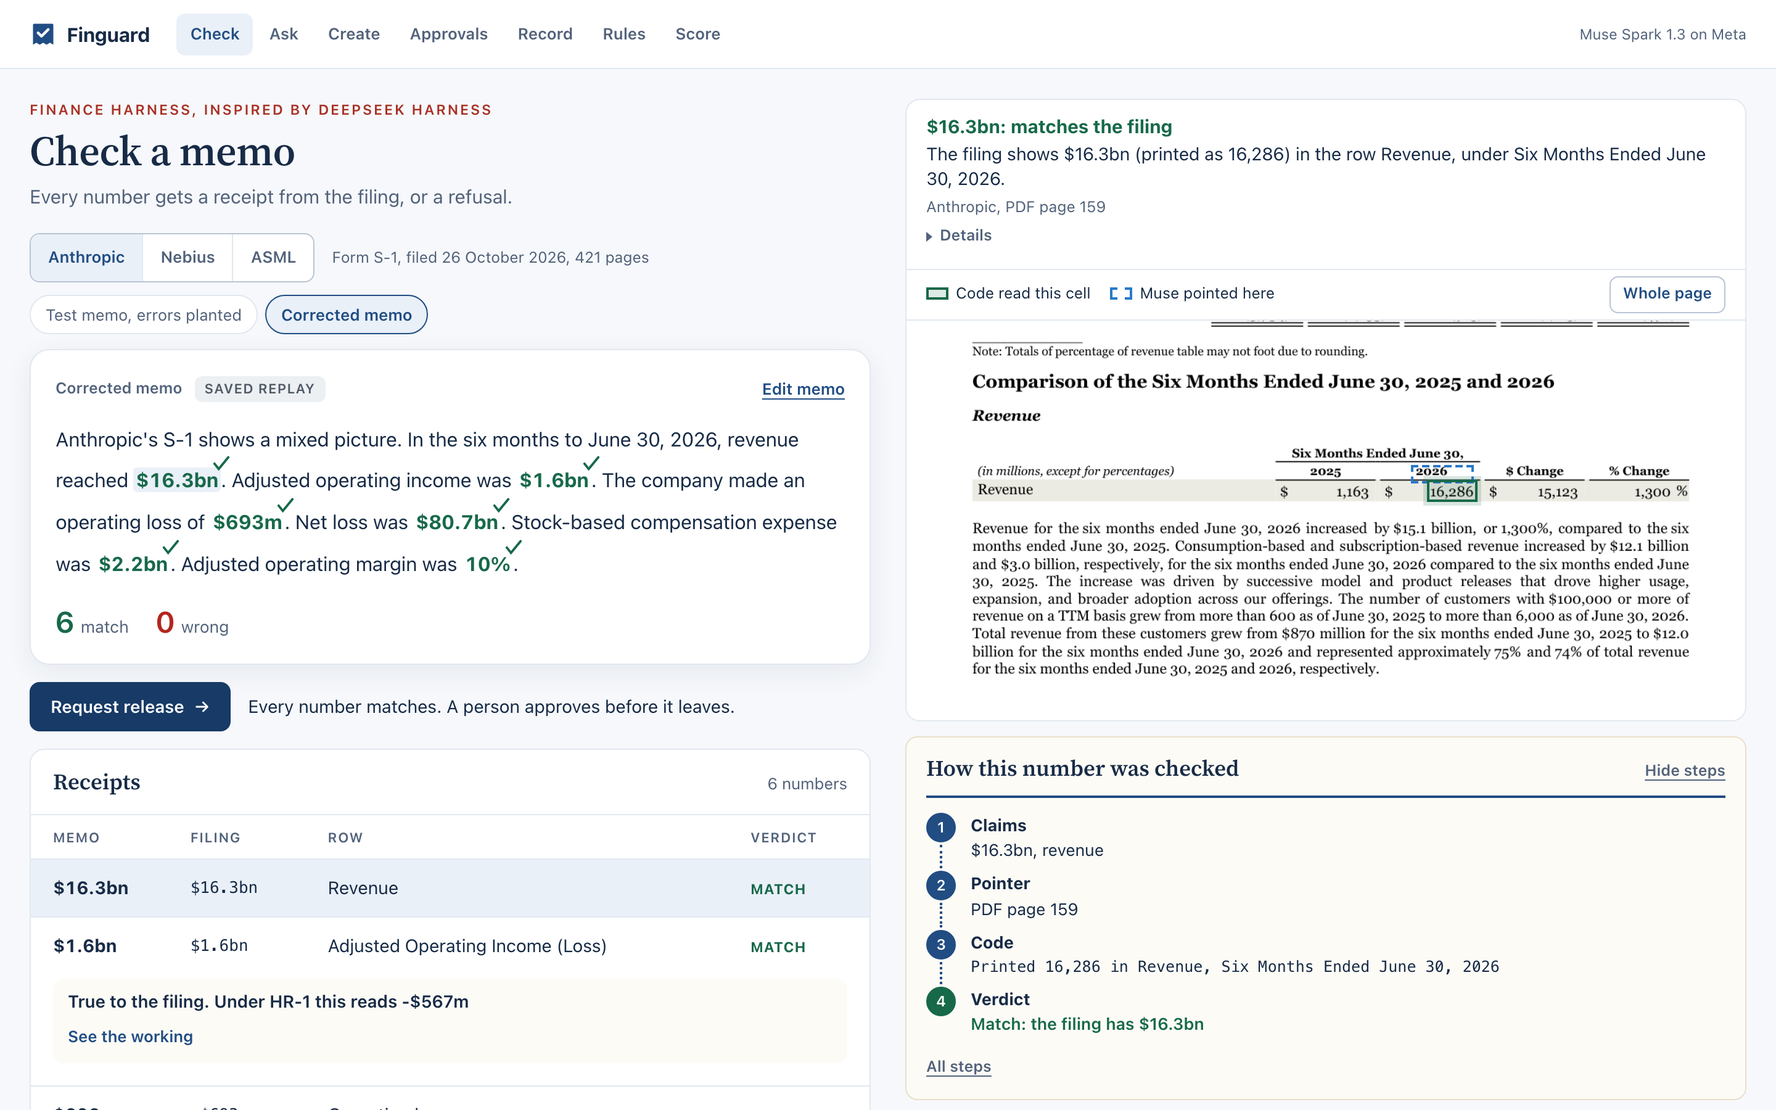
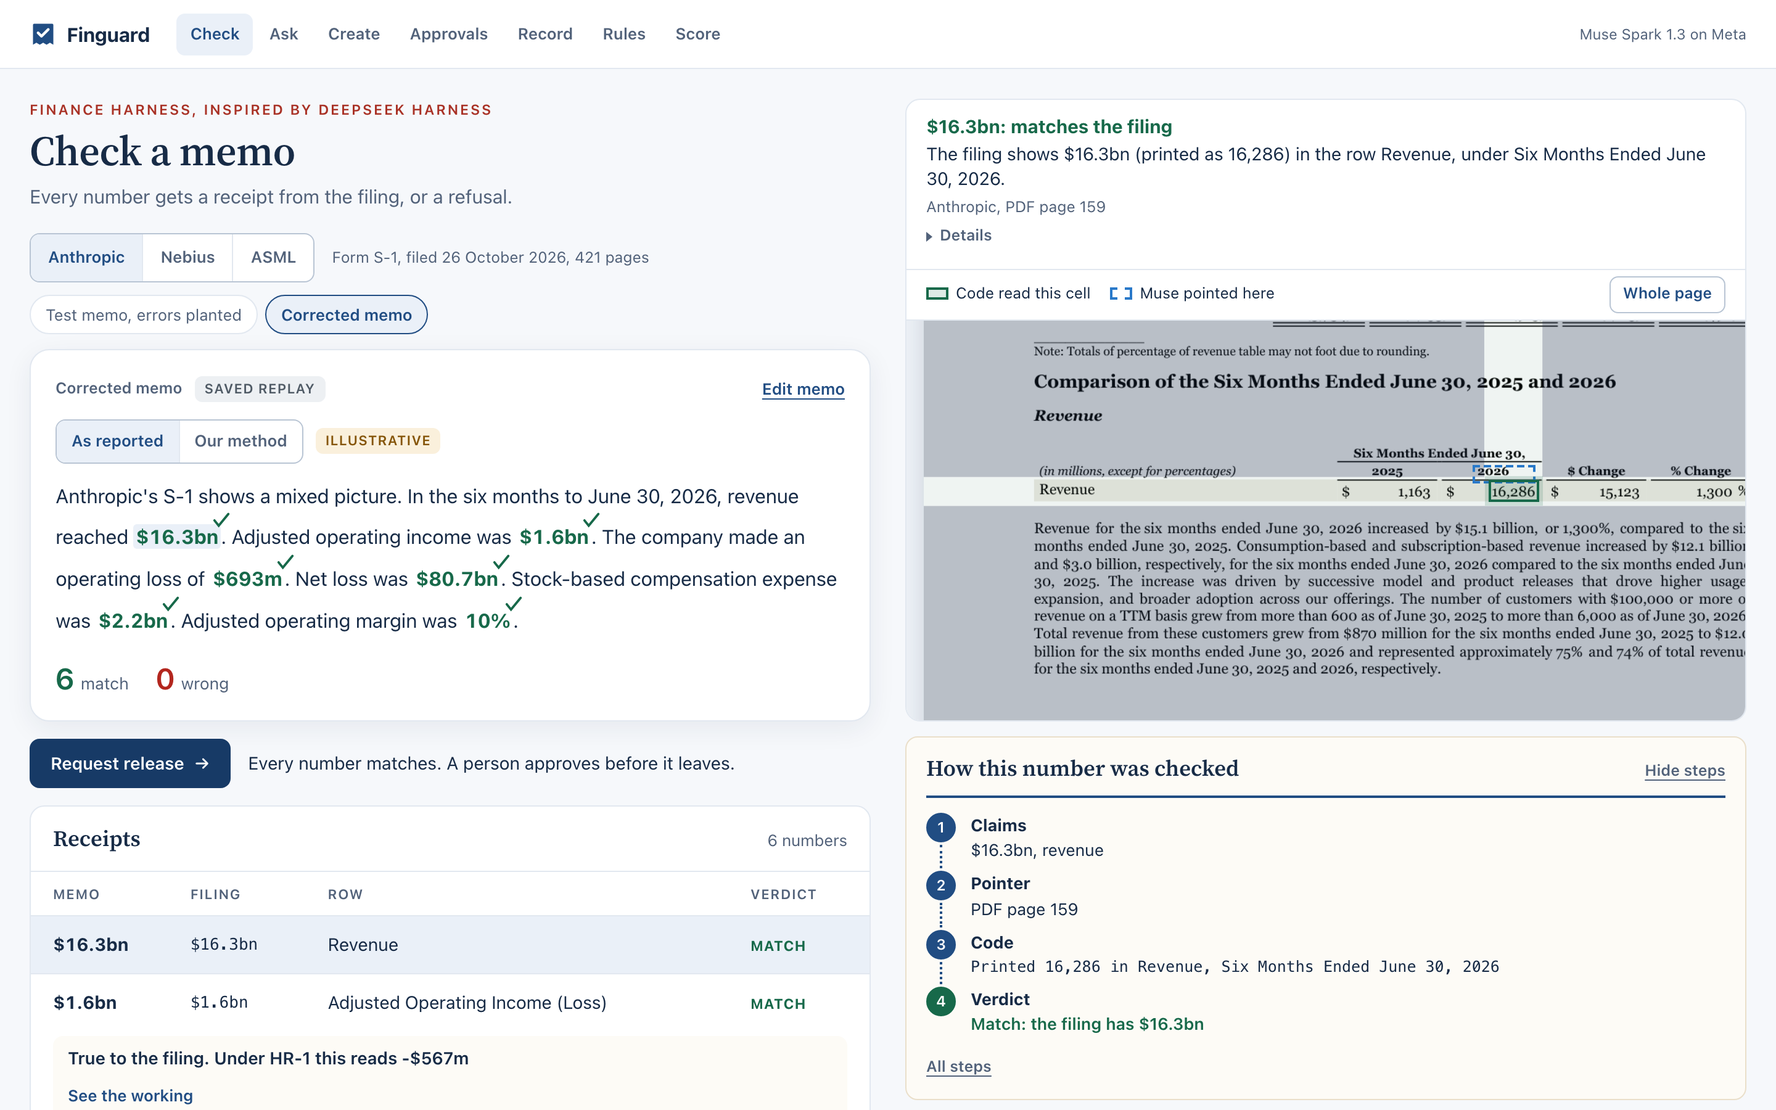
Add the method switch, the crosshair proof and a one by one reveal
Flipping to Our method shows a house reading in place, with no call and no change to any verdict. The proof
lights the cell's row and column. Marks appear in memo order, and the page never claims this is live progress.

diff --git a/finguard/static/index.html b/finguard/static/index.html
@@ -131,6 +131,20 @@ button.fig::after{content:"";position:absolute;inset:-13px -4px}
 .fig .ring{position:absolute;left:-7px;top:-5px;width:calc(100% + 14px);height:calc(100% + 10px);pointer-events:none;overflow:visible}
 .fig .ring path{stroke:var(--wrong);stroke-width:1.8;fill:none;stroke-linecap:round;vector-effect:non-scaling-stroke;stroke-dasharray:1;stroke-dashoffset:1;animation:draw .55s cubic-bezier(.6,.1,.3,1) forwards;animation-delay:var(--d,0s)}
 @keyframes draw{to{stroke-dashoffset:0}}
+/* one by one: a number stays neutral until its turn */
+.fig{transition:color .15s ease-out}
+.fig.pending{color:var(--ink);border-bottom-color:transparent}
+.fig.pending svg{display:none}
+/* the method switch changes the display only */
+.fig-house{display:none}
+.memo.method-on .fig.has-house{font-size:.82em;font-weight:500;color:var(--soft);text-decoration:line-through}
+.memo.method-on .fig-house{display:inline-block;margin-left:5px;padding:0 4px;border-radius:3px;font-size:1.22em;font-weight:700;color:var(--navy);background:var(--tint);text-decoration:none;animation:house-in .2s ease-out}
+@keyframes house-in{from{opacity:0;transform:translateY(3px)}}
+.method{display:flex;flex-wrap:wrap;align-items:center;gap:6px 10px;margin:0 0 10px}
+.method .tabs button{min-height:34px;padding:4px 12px}
+.method-note{flex-basis:100%;font-size:13px;line-height:1.4;color:var(--soft)}
+.house-note{display:flex;flex-wrap:wrap;align-items:center;gap:2px 8px}
+.house-note>details,.house-note>p.mono{flex-basis:100%}
 .memo.quiet{font-size:15px;line-height:1.95}
 
 /* tally and release */
@@ -195,6 +209,13 @@ button.fig::after{content:"";position:absolute;inset:-13px -4px}
 @keyframes rise{from{transform:translateY(6px)}}
 .page-wait{font-size:13px;color:var(--soft);margin:0 0 10px;line-height:1.4}
 .box{position:absolute;pointer-events:none}
+/* the crosshair: the page dims, the cell's row and column stay lit, and they meet at the solid box */
+.cross{position:absolute;inset:0;width:100%;height:100%;pointer-events:none;animation:cross-in .22s ease-out}
+.page:not(.ready) .cross{display:none}
+.cross .band{fill:var(--wrong);opacity:.07}
+.cross.match .band{fill:var(--match)}
+.cross.read .band{fill:var(--navy)}
+@keyframes cross-in{from{opacity:0}}
 .page:not(.ready) .box{display:none}
 .box.code{border:2px solid var(--wrong);background:rgba(179,38,30,.13);box-shadow:0 0 0 3px rgba(179,38,30,.16)}
 .box.code.match{border-color:var(--match);background:rgba(23,105,74,.13);box-shadow:0 0 0 3px rgba(23,105,74,.16)}
@@ -520,7 +541,7 @@ button.fig::after{content:"";position:absolute;inset:-13px -4px}
   .house-note details summary{min-height:44px}
   .answer{padding:14px}
   .linkish{min-height:44px}
-  .more>summary,.panel-toggle,.panel-all{min-height:44px}
+  .more>summary,.panel-toggle,.panel-all,.method .tabs button{min-height:44px}
   .operator p{padding-bottom:0}
   .site-foot a{display:inline-flex;align-items:center;min-height:44px}
   .site-foot{padding:8px 16px 24px}
@@ -951,13 +972,12 @@ function markedMemo(memo, receipts, onPick) {
   const placed = receipts.map((r, i) => ({r, i}))
     .filter(({r}) => Number.isInteger(r.start) && Number.isInteger(r.end) && r.start >= 0 && r.end > r.start && r.end <= text.length)
     .sort((a, b) => a.r.start - b.r.start);
-  let at = 0, order = 0;
+  let at = 0;
   for (const {r, i} of placed) {
     if (r.start < at) continue; // two receipts cannot mark the same words
     box.append(text.slice(at, r.start));
     const v = verdictOf(r), words = text.slice(r.start, r.end);
     const mark = onPick ? el("button", `fig ${v}`, words) : el("span", `fig ${v}`, words);
-    mark.style.setProperty("--d", `${order * 0.12}s`); order++;
     if (onPick) {
       mark.type = "button"; mark.dataset.i = i;
       mark.setAttribute("aria-label", `${words}: ${VERDICT[v]}`);
@@ -1062,10 +1082,11 @@ function inputButtons(inputs, onPick) {
   });
   return box;
 }
-function houseBlock(h, onInput) {
+function houseBlock(h, onInput, label) {
   const line = houseLine(h);
   if (!line) return null;
   const block = el("div", "house-note inputs-scope", el("p", "house-line", line));
+  if (label) block.append(stamp(label, "amber"));
   if (h.working && h.working !== h.reason) {
     const d = el("details", "", el("summary", "", "See the working"), el("p", "house-working", h.working));
     if (onInput && h.inputs && h.inputs.length) d.append(inputButtons(h.inputs, onInput));
@@ -1115,6 +1136,26 @@ function personWords(a) {
   return null;
 }
 /* The right column: proof first, then the timeline, reduced to the steps with data. Several benches can share one desk. */
+/* The cell's row and column, from the box alone. The API gives no heading position, so the column fades out upward. */
+let crossCount = 0;
+function crossNode(box, tone) {
+  const NS = "http://www.w3.org/2000/svg";
+  const make = (tag, attrs) => { const n = document.createElementNS(NS, tag); for (const k in attrs) n.setAttribute(k, attrs[k]); return n; };
+  const [x0, y0, x1, y1] = box.map(Number);
+  const L = Math.max(0, x0 - 8), R = Math.min(1000, x1 + 8), T = Math.max(0, y0 - 5), B = Math.min(1000, y1 + 5);
+  const top = Math.max(0, T - 260), fade = Math.min(100, T - top);
+  const dim = "#172b46", dimAlpha = "0.3";
+  const cross = make("svg", {class: `cross ${tone}`, viewBox: "0 0 1000 1000", preserveAspectRatio: "none", "aria-hidden": "true"});
+  const id = `cross-fade-${++crossCount}`;
+  const defs = make("defs", {}), grad = make("linearGradient", {id, x1: "0", y1: "0", x2: "0", y2: "1"});
+  grad.append(make("stop", {offset: "0", "stop-color": dim, "stop-opacity": dimAlpha}), make("stop", {offset: "1", "stop-color": dim, "stop-opacity": "0"}));
+  defs.append(grad);
+  cross.append(defs,
+    make("path", {d: `M0 0H1000V1000H0Z M0 ${T}V${B}H1000V${T}H${R}V${top}H${L}V${T}Z`, "fill-rule": "evenodd", fill: dim, "fill-opacity": dimAlpha}),
+    make("path", {class: "band", d: `M0 ${T}V${B}H1000V${T}H${R}V${top + fade}H${L}V${T}Z`}));
+  if (fade > 0) cross.append(make("rect", {x: L, y: top, width: R - L, height: fade, fill: `url(#${id})`}));
+  return cross;
+}
 function makeDesk(root, {steps = STEPS, values = stepValues, title = "How each number is checked", activeTitle = "How this number was checked"} = {}) {
   let current = null, opts = {}, owner = null, zoomFit = false, reveal = null, userCollapsed = null, showAll = false;
   const card = el("div", "card"); card.setAttribute("aria-live", "polite");
@@ -1167,7 +1208,7 @@ function makeDesk(root, {steps = STEPS, values = stepValues, title = "How each n
     const head = r.codeRead ? `${r.value_text}: read by code` : `${r.value_text || "This number"}: ${VERDICT[v].toLowerCase()}`;
     card.replaceChildren(el("p", `kicker-v ${v}`, head), el("p", "why", r.why || ""));
     if (!r.codeRead) {
-      const note = houseBlock(r.house, opts.onInput);
+      const note = houseBlock(r.house, opts.onInput, opts.ruleLabel);
       if (note) card.append(note);
     }
     const bits = [f ? f.company : opts.filing];
@@ -1218,6 +1259,7 @@ function makeDesk(root, {steps = STEPS, values = stepValues, title = "How each n
       o.style.width = `${(b[2] - b[0]) / 10 + 2 * pad}%`; o.style.height = `${(b[3] - b[1]) / 10 + pad}%`;
       p.append(o); return o;
     };
+    if (hasBox(r.box)) p.append(crossNode(r.box, r.codeRead ? "read" : ok ? "match" : "wrong"));
     if (hasBox(r.muse_box)) place(r.muse_box, "muse", 0);
     const target = hasBox(r.box) ? place(r.box, r.codeRead ? "code read" : ok ? "code match" : "code", 0.4) : (hasBox(r.muse_box) ? p.querySelector(".box.muse") : null);
     const wait = el("p", "page-wait", "Loading the page.");
@@ -1230,8 +1272,14 @@ function makeDesk(root, {steps = STEPS, values = stepValues, title = "How each n
       const t = target.getBoundingClientRect(), o = viewer.getBoundingClientRect();
       viewer.scrollTo({
         top: viewer.scrollTop + t.top - o.top - viewer.clientHeight * .42,
-        left: zoomFit ? 0 : viewer.scrollLeft + t.left - o.left - viewer.clientWidth * .62,
+        // As far left as the number allows, so its row name stays in view too.
+        left: zoomFit ? 0 : Math.max(0, viewer.scrollLeft + t.right - o.left + 24 - viewer.clientWidth),
       });
+      // On a stacked layout a long card can push the cell below the screen.
+      if (opts.byUser && stacked()) {
+        const now = target.getBoundingClientRect();
+        if (now.bottom > innerHeight - 16) scrollBy({top: now.bottom - innerHeight + 96});
+      }
     };
     if (img.complete && img.naturalWidth) reveal(); else img.addEventListener("load", () => reveal && reveal(), {once: true});
     zoom.onclick = () => {
@@ -1258,7 +1306,7 @@ function makeDesk(root, {steps = STEPS, values = stepValues, title = "How each n
       proof.hidden = false;
       root.classList.add("has-proof");
       drawCard(item); drawPage(item); drawSteps(item);
-      if (options.byUser && stacked()) proof.scrollIntoView({block: "start"});
+      if (options.byUser && stacked()) { proof.scrollIntoView({block: "start"}); if (reveal) reveal(); }
     },
     clear,
     clearFor(who) { if (owner === who) clear(); },
@@ -1268,7 +1316,7 @@ function makeDesk(root, {steps = STEPS, values = stepValues, title = "How each n
 }
 function makeBench(memoSlot, resultSlot, deskOrEl, {lines = false, labelSlot = null} = {}) {
   const desk = deskOrEl instanceof Element ? makeDesk(deskOrEl) : deskOrEl;
-  let receipts = [], selected = null, filingId = null, runId = null, person = null, memoText = "";
+  let receipts = [], selected = null, filingId = null, runId = null, person = null, memoText = "", ruleLabel = "", stopReveal = null;
   const me = {
     deselect() {
       selected = null;
@@ -1286,6 +1334,7 @@ function makeBench(memoSlot, resultSlot, deskOrEl, {lines = false, labelSlot = n
     desk.show(cellItem(input, {column: h && h.column, method}), {filing: filingId, owner: me, byUser: true, back: backToMemo});
   }
   function clear() {
+    if (stopReveal) stopReveal(false);
     desk.clearFor(me);
     receipts = []; selected = null; runId = null; person = null;
     memoSlot.replaceChildren(); resultSlot.replaceChildren();
@@ -1308,7 +1357,7 @@ function makeBench(memoSlot, resultSlot, deskOrEl, {lines = false, labelSlot = n
     const r = receipts[i];
     memoSlot.querySelectorAll(".fig").forEach(b => b.setAttribute("aria-pressed", String(+b.dataset.i === i)));
     resultSlot.querySelectorAll("[data-i]").forEach(t => { if (+t.dataset.i === i) t.setAttribute("aria-current", "true"); });
-    desk.show(r, {filing: filingId, person, owner: me, byUser, back: backToMemo, onInput: input => showCell(input, r.house)});
+    desk.show(r, {filing: filingId, person, owner: me, byUser, back: backToMemo, ruleLabel, onInput: input => showCell(input, r.house)});
   }
   function drawTable(box) {
     const table = el("table", "ledger");
@@ -1398,21 +1447,95 @@ function makeBench(memoSlot, resultSlot, deskOrEl, {lines = false, labelSlot = n
       } catch (e) { go.disabled = false; note.textContent = e.message; }
     };
   }
+  /* As reported or Our method. Display only: no door call, nothing on the ledger, and the verdicts stay as they are. */
+  function methodSwitch(memoBox, result) {
+    const notes = receipts.map((r, i) => ({r, i, fig: memoBox.querySelector(`.fig[data-i="${i}"]`)}))
+      .filter(({r, fig}) => fig && r.house && r.house.status === "differs" && r.house.house_money);
+    if (!notes.length) return null;
+    for (const {r, fig} of notes) {
+      fig.classList.add("has-house");
+      fig.insertBefore(el("span", "fig-house", String(r.house.house_money)), fig.childNodes[1] || null);
+      fig.dataset.reported = fig.getAttribute("aria-label") || "";
+    }
+    const off = el("button", "", "As reported"), on = el("button", "", "Our method");
+    off.type = on.type = "button";
+    const tabs = el("div", "tabs", off, on);
+    tabs.setAttribute("role", "group"); tabs.setAttribute("aria-label", "How to read the numbers");
+    const ids = [...new Set(notes.map(({r}) => r.house.rule_id).filter(Boolean))].join(", ");
+    const note = el("p", "method-note", `Shown under ${ids || "the house rules"}. The filing's numbers and the verdicts do not change.`);
+    const box = el("div", "method", tabs, result.rules_label ? stamp(result.rules_label, "amber") : null, note);
+    const show = method => {
+      memoBox.classList.toggle("method-on", method);
+      off.setAttribute("aria-pressed", String(!method)); on.setAttribute("aria-pressed", String(method));
+      note.hidden = !method;
+      for (const {r, fig} of notes) fig.setAttribute("aria-label", method ? `${fig.dataset.reported}. ${houseLine(r.house)}` : fig.dataset.reported);
+    };
+    off.onclick = () => show(false);
+    on.onclick = () => { show(true); if (!notes.some(({i}) => i === selected)) select(notes[0].i, false); };
+    show(false);
+    return box;
+  }
+  /* One by one: the verdicts are already final, and this only paces how they appear. */
+  function playReveal(memoBox, tally, later, done) {
+    const figs = [...memoBox.querySelectorAll(".fig[data-i]")];
+    const bars = {};
+    for (const v of VERDICTS) { const span = tally.querySelector(`.${v}`); if (span) bars[v] = {span, b: span.querySelector("b")}; }
+    const c = {match: 0, wrong: 0, refused: 0, unchecked: 0};
+    const drawTally = () => { for (const v in bars) { bars[v].b.textContent = String(c[v]); bars[v].span.hidden = !c[v] && (v === "refused" || v === "unchecked"); } };
+    figs.forEach(f => f.classList.add("pending"));
+    later.forEach(n => { n.hidden = true; });
+    tally.setAttribute("aria-hidden", "true");
+    drawTally();
+    const step = figs.length > 8 ? 3300 / figs.length : 450;
+    let timer = null, at = 0;
+    const finish = (settle = true) => {
+      clearTimeout(timer);
+      document.removeEventListener("click", skip, true);
+      document.removeEventListener("keydown", skip, true);
+      stopReveal = null;
+      figs.forEach(f => f.classList.remove("pending"));
+      Object.assign(c, countOf(receipts));
+      drawTally();
+      tally.removeAttribute("aria-hidden");
+      later.forEach(n => { n.hidden = false; });
+      if (settle) done();
+    };
+    const skip = () => finish();
+    const next = () => {
+      if (at >= figs.length) { finish(); return; }
+      const f = figs[at++];
+      f.classList.remove("pending");
+      const v = verdictOf(receipts[+f.dataset.i]);
+      c[v]++;
+      drawTally();
+      timer = setTimeout(next, step);
+    };
+    stopReveal = finish;
+    document.addEventListener("click", skip, true);
+    document.addEventListener("keydown", skip, true);
+    timer = setTimeout(next, 200);
+  }
   /* labels: the plain words that say what kind of run this is */
-  function render({memo, result, id, filing, labels = [], release = true, focusAfter = false}) {
+  function render({memo, result, id, filing, labels = [], release = true, focusAfter = false, reveal = false}) {
+    if (stopReveal) stopReveal(false);
     receipts = Array.isArray(result.receipts) ? result.receipts : [];
     runId = id || null; filingId = filing || result.filing || null; selected = null; person = null; memoText = memo;
+    ruleLabel = result.rules_label || "";
     setModel(result.model);
     const memoBox = markedMemo(memo, receipts, select);
     memoSlot.replaceChildren(memoBox);
+    const method = methodSwitch(memoBox, result);
+    if (method) memoSlot.prepend(method);
     resultSlot.replaceChildren();
     if (labelSlot) labelSlot.replaceChildren(labels.length ? pillRow(labels) : "");
     else if (labels.length) memoSlot.prepend(pillRow(labels));
+    let tally = null;
     if (lines && !receipts.length) {
       resultSlot.append(el("p", "msg", "No numbers to check."));
     } else {
       if (lines && receipts.length) drawLines(resultSlot);
-      (lines ? resultSlot : memoSlot).append(tallyNode(receipts));
+      tally = tallyNode(receipts);
+      (lines ? resultSlot : memoSlot).append(tally);
       const holds = result.record ? result.record.holds : undefined;
       if (release) drawRelease(resultSlot, holds);
       if (!lines) {
@@ -1431,12 +1554,21 @@ function makeBench(memoSlot, resultSlot, deskOrEl, {lines = false, labelSlot = n
     if (result.filing_sha256) detail.push(["Filing hash", el("span", "hash", String(result.filing_sha256))]);
     if (result.rules_sha256) detail.push(["House rules", el("span", "", result.rules_label ? `${result.rules_label} ` : "", el("span", "hash", String(result.rules_sha256)))]);
     if (detail.length) resultSlot.append(moreBox("Details", kv(detail)));
-    const first = receipts.find(r => verdictOf(r) === "wrong") || receipts[0];
-    if (first) select(receipts.indexOf(first), false); else desk.clearFor(me);
-    loadPerson();
     const c = countOf(receipts);
+    // Screen readers get the final state at once, whatever the marks are doing on screen.
     $("announce").textContent = `Checked. ${VERDICTS.filter(v => c[v]).map(v => `${c[v]} ${VERDICT_SHORT[v]}`).join(", ") || "No numbers found"}.`;
-    if (focusAfter) { const fig = memoSlot.querySelector('.fig[aria-pressed="true"]'); if (fig) fig.focus({preventScroll: true}); }
+    const settle = () => {
+      const first = receipts.find(r => verdictOf(r) === "wrong") || receipts[0];
+      if (first) select(receipts.indexOf(first), false); else desk.clearFor(me);
+      loadPerson();
+      const free = !document.activeElement || document.activeElement === document.body;
+      if (focusAfter && (free || !reveal)) { const fig = memoSlot.querySelector('.fig[aria-pressed="true"]'); if (fig) fig.focus({preventScroll: true}); }
+    };
+    if (reveal && tally && memoBox.querySelector(".fig[data-i]") && !reduced()) {
+      const later = [...resultSlot.children].filter(n => n !== tally);
+      if (method) later.push(method);
+      playReveal(memoBox, tally, later, settle);
+    } else settle();
   }
   return {
     render, clear,
@@ -1578,7 +1710,7 @@ async function runCheck() {
     $("memoInput").hidden = true; $("memoEdit").hidden = false; $("checkGo").hidden = true; $("memoHint").hidden = true;
     const isCorrected = f.corrected && memo === f.corrected.trim();
     $("memoLabel").textContent = isCorrected ? "Corrected memo" : isSaved ? "Test memo" : "Your memo";
-    check.bench.render({memo: out.result.memo || memo, result: out.result, id: out.run_id, filing: f.id, labels: savedLabels(out.result, isSaved && !isCorrected), focusAfter: true});
+    check.bench.render({memo: out.result.memo || memo, result: out.result, id: out.run_id, filing: f.id, labels: savedLabels(out.result, isSaved && !isCorrected), focusAfter: true, reveal: true});
     if (f.corrected && memo === f.memo.trim()) {
       const fix = el("button", "btn primary", "Load the corrected memo ", arrow()); fix.type = "button";
       fix.onclick = () => { showCheckInput(f.corrected); $("checkRun").focus(); };
@@ -1784,7 +1916,7 @@ async function runAsk(text) {
     const memoSlot = el("div", "answer-memo"), resultSlot = el("div", "answer-result");
     answer.append(memoSlot, resultSlot);
     const bench = makeBench(memoSlot, resultSlot, ask.desk, {lines: true});
-    bench.render({memo: r.memo || "", result: r, id: out.run_id, filing: f.id, labels: savedLabels({...r, drafted_by_muse: true}, false), focusAfter: true});
+    bench.render({memo: r.memo || "", result: r, id: out.run_id, filing: f.id, labels: savedLabels({...r, drafted_by_muse: true}, false), focusAfter: true, reveal: true});
     refreshPending();
   } catch (e) {
     drawNotRun(answer, e.status === 404 ? "Ask is not available on this server." : e.message);

diff --git a/README.md b/README.md
@@ -168,14 +168,14 @@ Saved runs replay real Muse replies, and the page labels them. A new memo is a l
 1. **Check:** run the Anthropic test memo, which has errors planted on purpose. Two numbers get red rings. Pick one to see the cell code read and where Muse pointed.
 2. **Load the corrected memo.** All 6 match, and Request release appears.
 3. **Ask:** "Did Anthropic make money in the first half of 2026?" Muse writes an answer, and every number is checked like any memo. Follow its suggested next questions.
-4. **House rule:** the "Our method" chip asks for Anthropic's operating result, and gives -$567m, worked out by code with no Muse call.
+4. **House rule:** on the corrected memo, flip **As reported** to **Our method**, and $1.6bn reads -$567m in place. In Ask, the "Our method" chip gives the same -$567m, worked out by code with no Muse call.
 5. **Refusal:** the "Add back stock compensation." chip is refused with the rule's text.
 6. **Create your own plugin:** pick Net debt. Muse writes a definition, and code works out $503.6m with each cell boxed. Approve it, and it becomes a plugin you can run.
 7. **Rules, Record, Score:** every capability's declared rules, the hash-chained ledger, and the measured results.
 
 ## Screens
 
-**Check.** Wrong numbers are ringed, and the proof shows the cell code read beside where Muse pointed.
+**Check.** Wrong numbers are ringed. The filing's row and column light up and meet at the cell code read, beside where Muse pointed.
 
 ![The Check page with two wrong numbers ringed in red and the filing cell boxed](docs/img/check.png)
 
@@ -187,7 +187,9 @@ Saved runs replay real Muse replies, and the page labels them. A new memo is a l
 
 ![The Ask page with a question, Muse's answer with numbers marked, and suggested next questions](docs/img/ask.png)
 
-**House rules.** The same cell reads differently under a method a person approved.
+**House rules.** Flip the method, and the same cell reads differently. The verdict stays true to the filing.
+
+![The corrected memo under Our method, with $1.6bn reading -$567m in place](docs/img/method.png)
 
 ![The Ask page showing -$567m worked out by code under rule HR-1, with the cells it read](docs/img/house.png)
 
